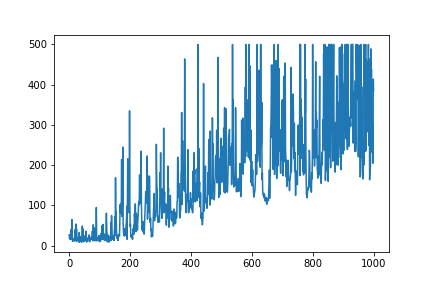
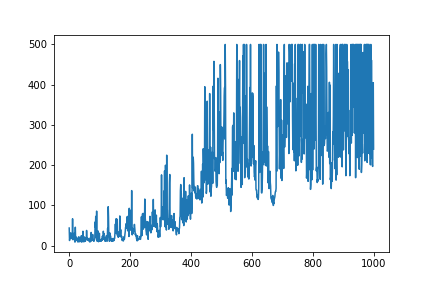
agent: cracked CartPole

Changed region(s): [[0.1505, 0.125, 0.8727, 0.8438]]

diff --git a/agent.py b/agent.py
@@ -24,7 +24,7 @@ class Agent():
         self.batch_size = batch_size
         self.C = C
         
-        self.optimizer = torch.optim.Adam(self.net.parameters(), lr=1e-2)
+        self.optimizer = torch.optim.Adam(self.net.parameters(), lr=5e-3)
         self.loss_fun = nn.SmoothL1Loss()
         self.replay_buffer = deque(maxlen=100000)
         self.iteration = 0
